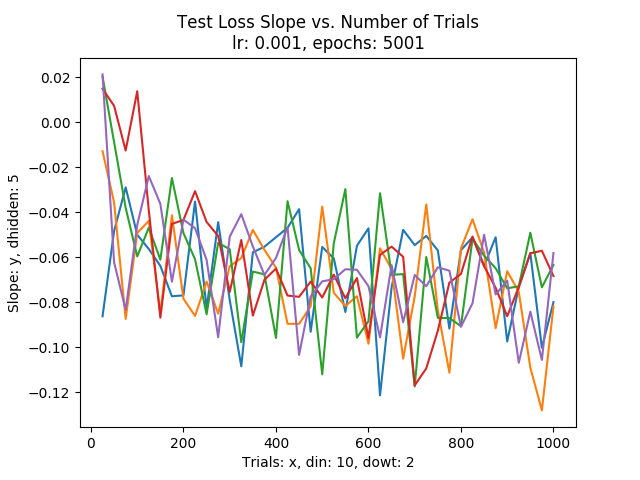
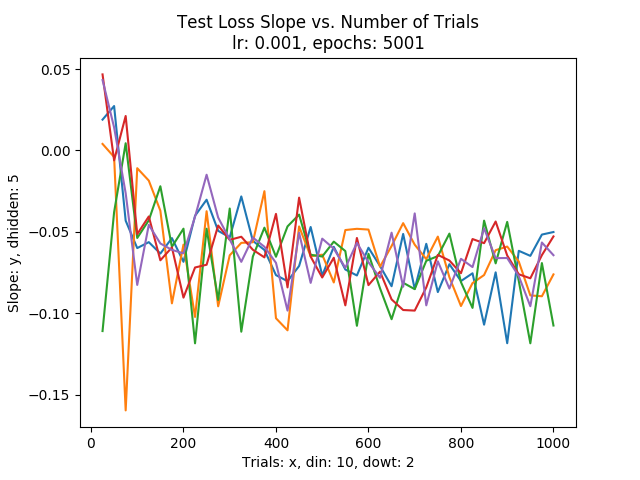
40 profiles (cross sections)

diff --git a/profile.py b/profile.py
@@ -51,7 +51,7 @@ if __name__ == '__main__':
     t0 = time.time()
 
     dataset = []
-    experiments = 20
+    experiments = 40
     for expe in range(experiments):
         slopes = run_all(sizes, din, dowt, dhidden, lr, epochs, device)
         print("total elapsed time: ")
@@ -64,7 +64,8 @@ if __name__ == '__main__':
         cumsum = cumsum + it
     cumsum = cumsum/experiments
         
-        
+    np.save('40fitAverageFrank', cumsum)
+    
     for inx, slopes in enumerate(dataset):
         plt.figure(1)
         plt.plot(sizes, slopes)
@@ -85,9 +86,6 @@ if __name__ == '__main__':
 
 
     
-    print(dataset[0])
-    print(dataset[1])
-    print(dataset[2])
-    print(cumsum)
+
         
     
